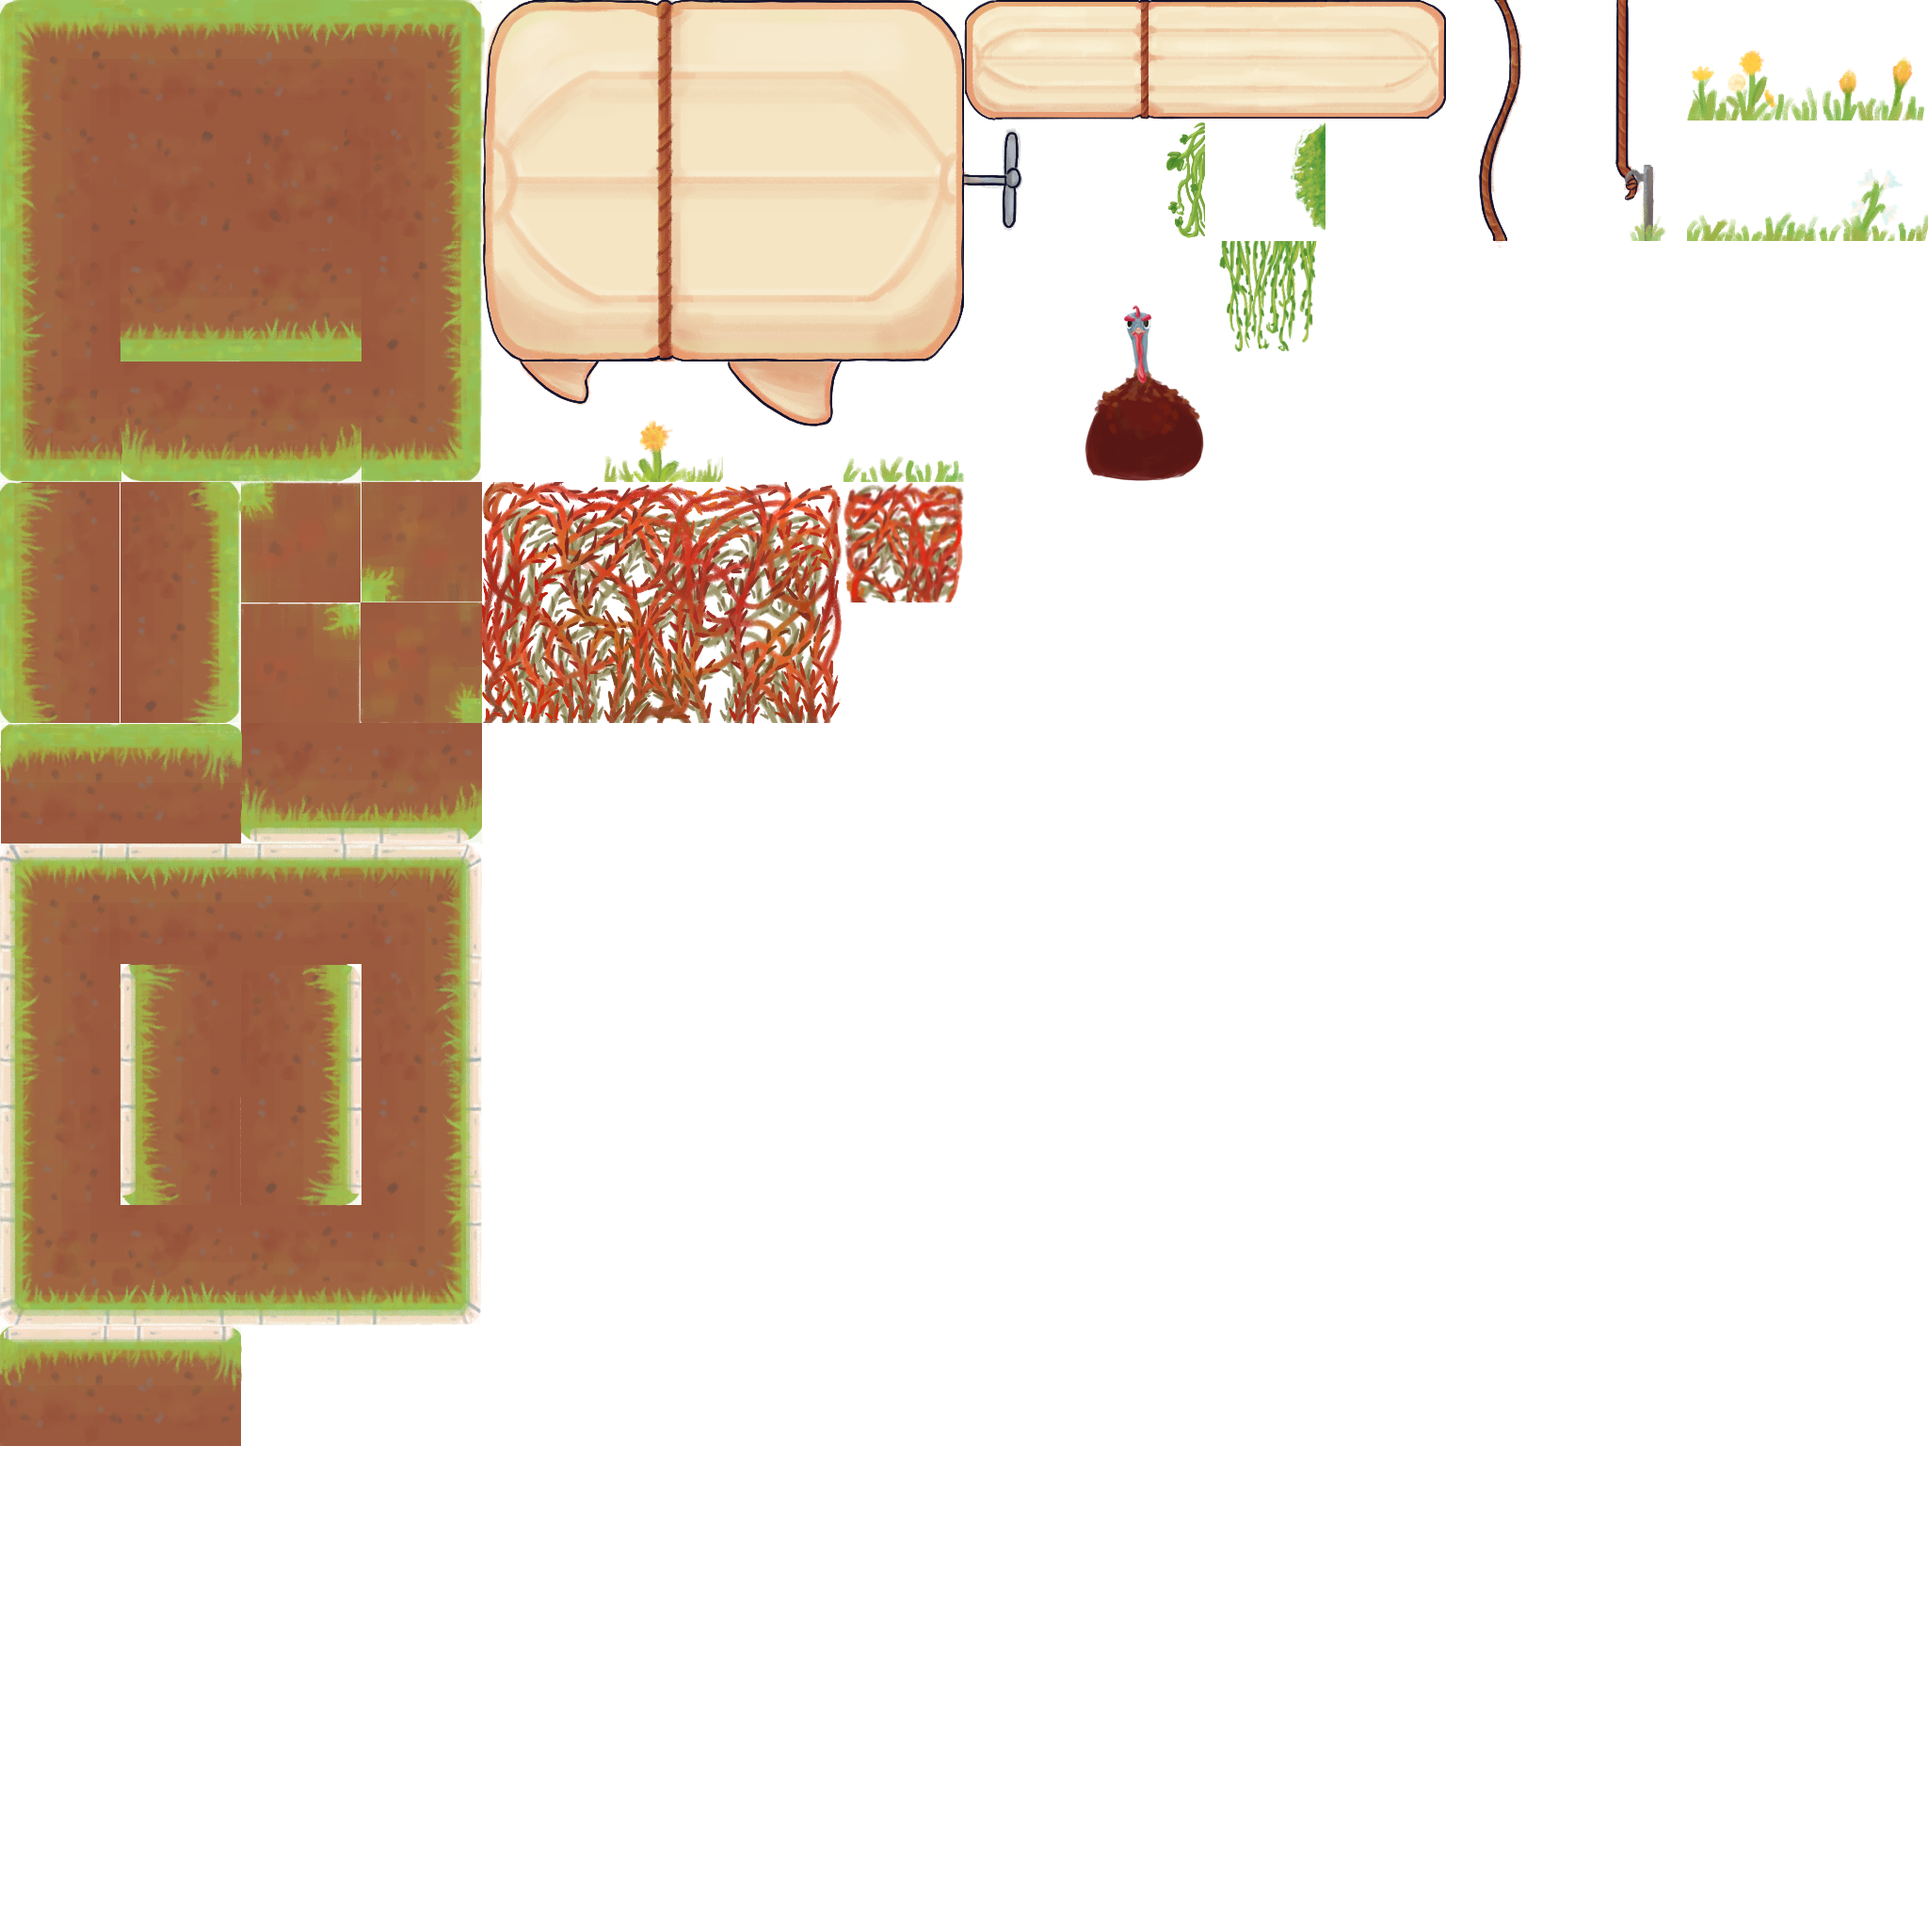
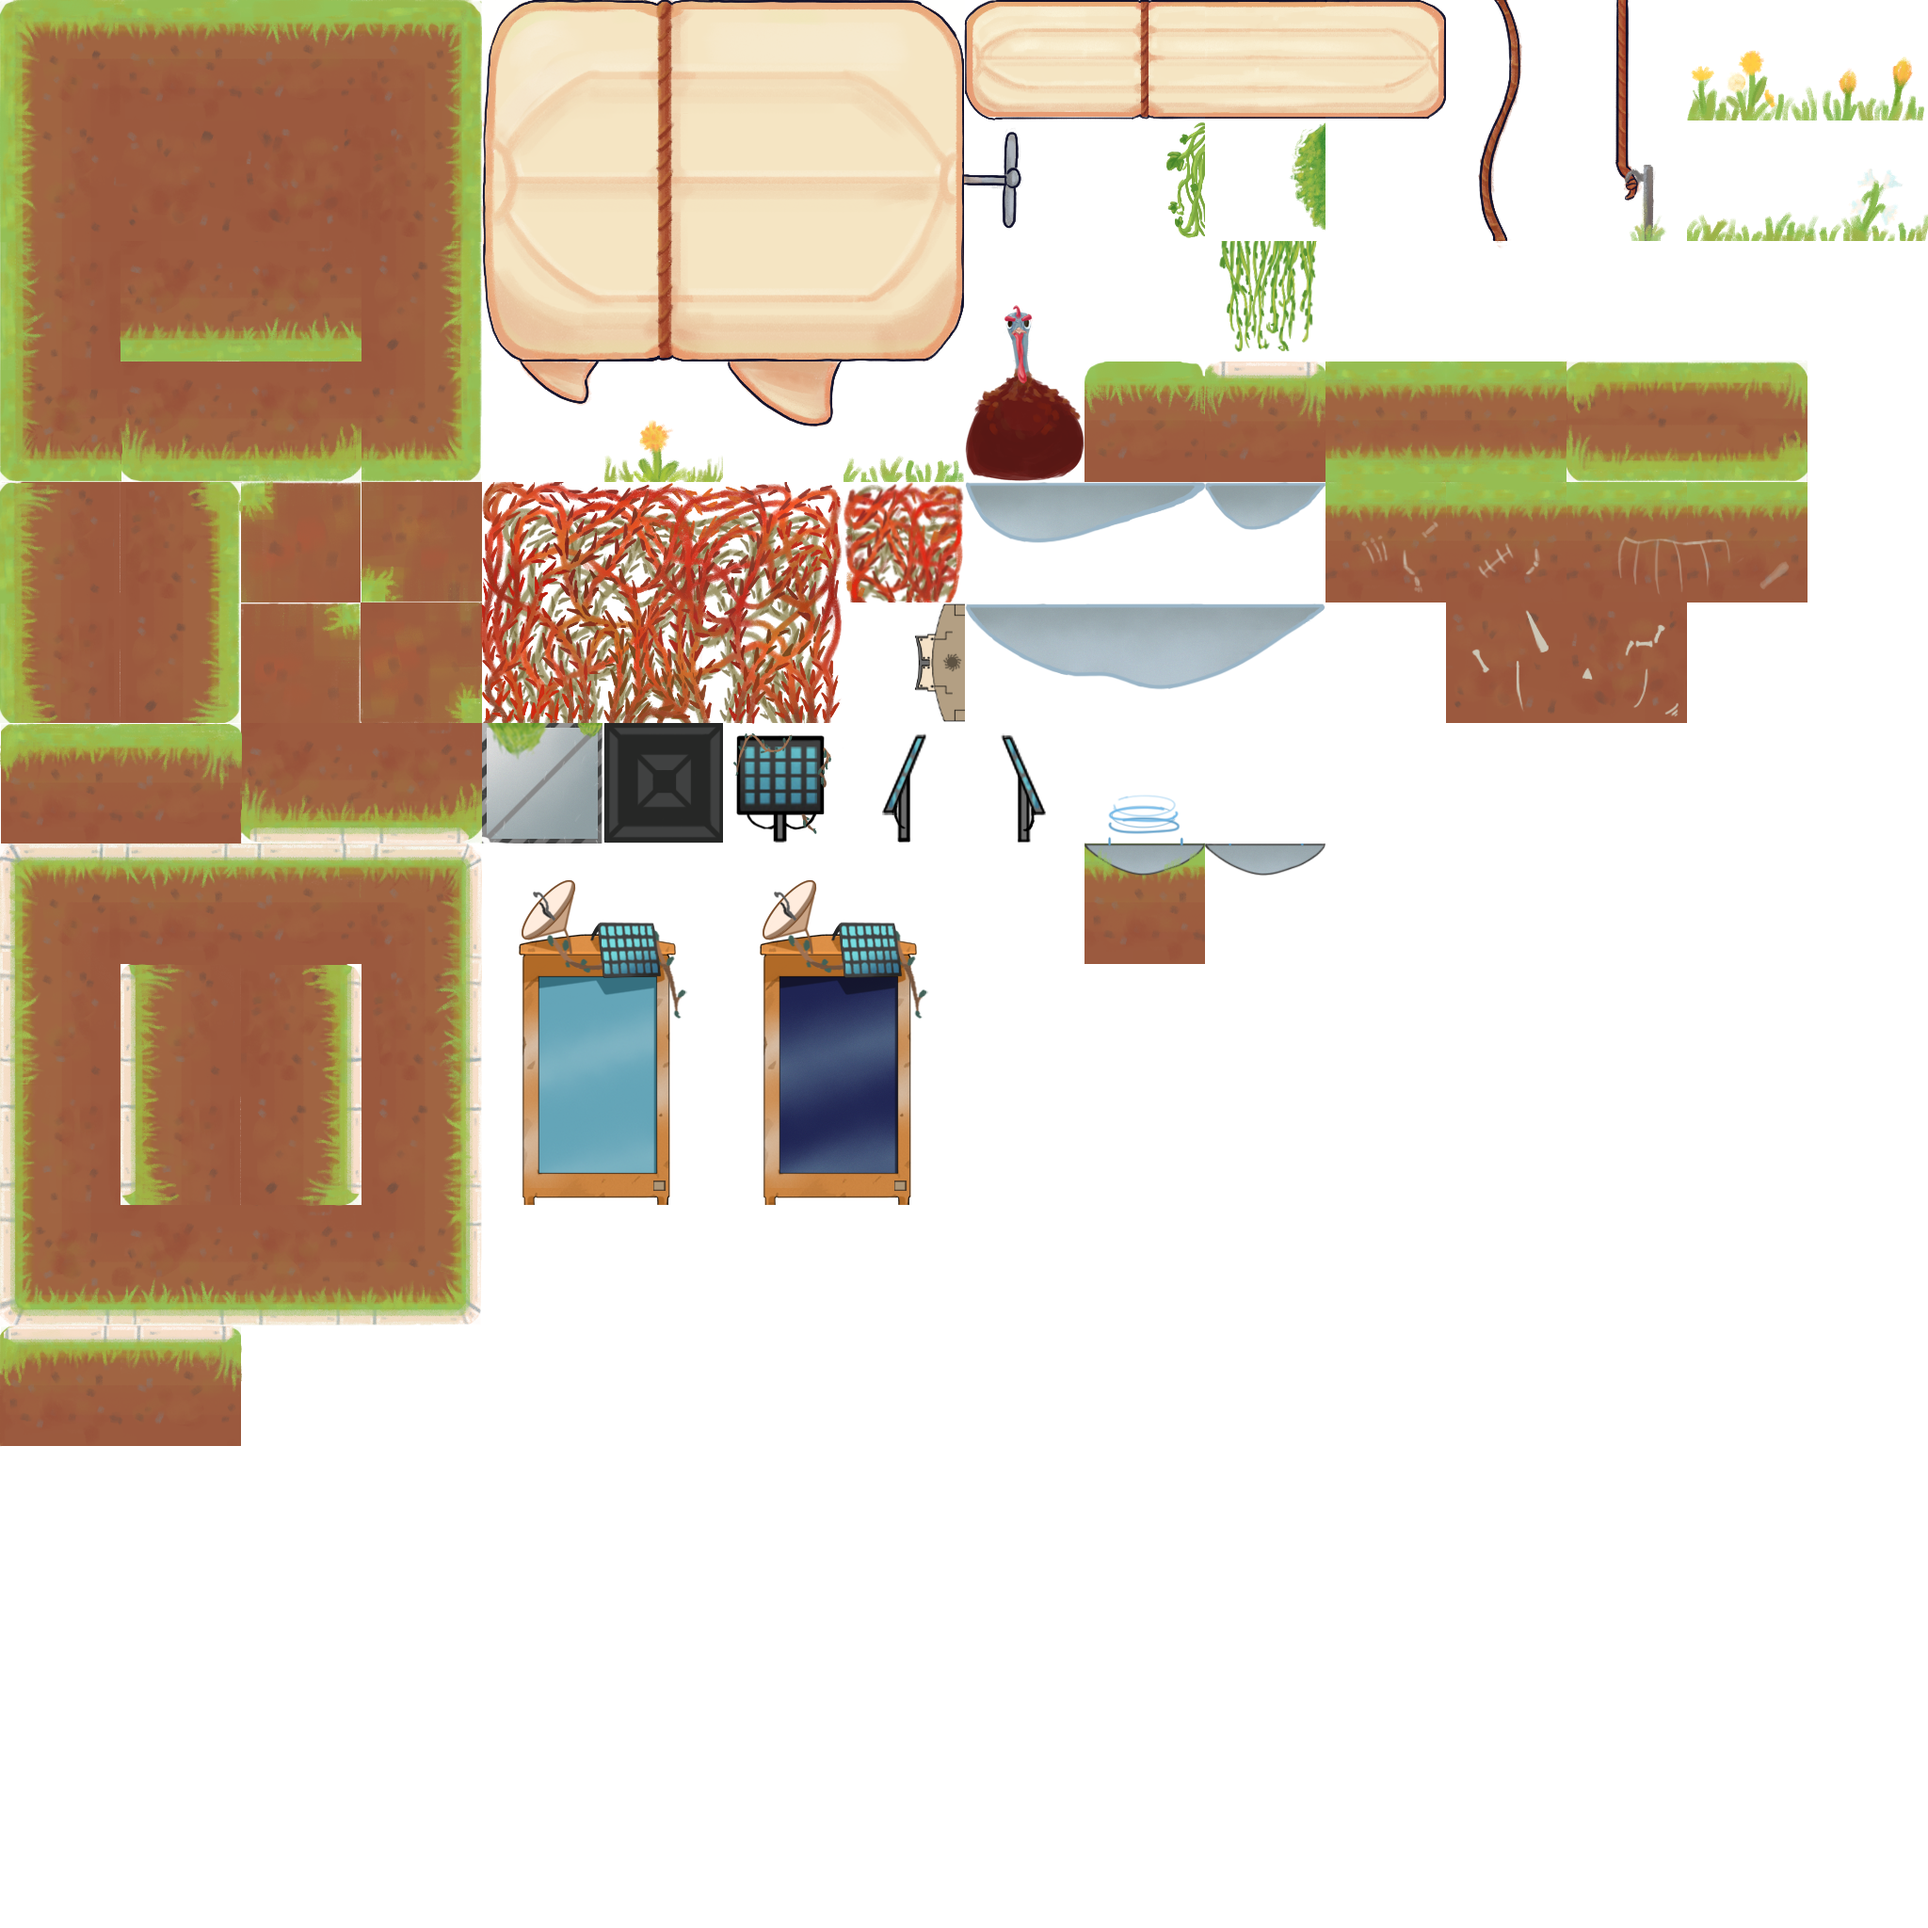
add new tilemap

Changed region(s): [[0.25, 0.3125, 0.6875, 0.625], [0.5, 0.1562, 0.9375, 0.375]]

diff --git a/src/LightEngine/GameScene/Level.cpp b/src/LightEngine/GameScene/Level.cpp
@@ -12,10 +12,16 @@
 void Level::ChooseJson(const char* path)
 {
 	mTileMap = *Utils::Parse(path);
-	std::string jsonpath = mTileMap["JsonPath"];
-	std::string sourcepath = mTileMap["SourcePath"];
-	std::string spritesheetname = mTileMap["SpriteSheetName"];
-	GameManager::Get()->GetTextureManager()->LoadSpriteSheet(jsonpath.c_str(), sourcepath.c_str(), spritesheetname);
+	std::string jsonpath1 = mTileMap["JsonPath"];
+	std::string sourcepath1 = mTileMap["SourcePath"];
+	std::string spritesheetname1 = mTileMap["SpriteSheetName"];
+	GameManager::Get()->GetTextureManager()->LoadSpriteSheet(jsonpath1.c_str(), sourcepath1.c_str(), spritesheetname1);
+
+	//mEnv = *Utils::Parse(envipath);
+	//std::string jsonpath2 = mEnv["JsonPath"];
+	//std::string sourcepath2 = mEnv["SourcePath"];
+	//std::string spritesheetname2 = mEnv["SpriteSheetName"];
+	//GameManager::Get()->GetTextureManager()->LoadSpriteSheet(jsonpath2.c_str(), sourcepath2.c_str(), spritesheetname2);
 }
 
 void Level::LoadLevel()
